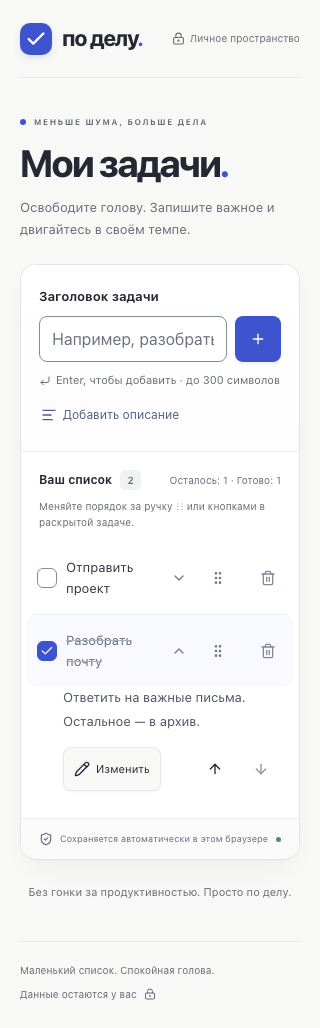
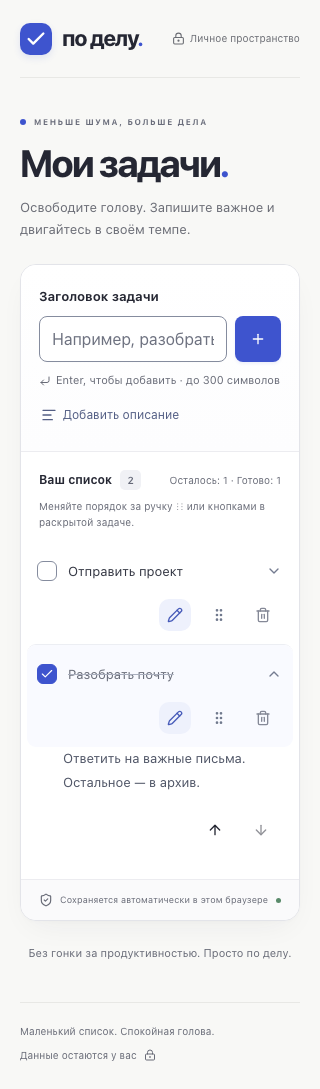
Make task editing directly accessible with a compact pencil action

diff --git a/src/components/sortable-task-list.tsx b/src/components/sortable-task-list.tsx
@@ -70,40 +70,46 @@ function TaskRow({
               <ChevronDown size={16} aria-hidden="true" className="task-chevron" />
             </button>
           </CollapsibleTrigger>
-          <Button
-            ref={handleRef}
-            id={`drag-${task.id}`}
-            variant="ghost"
-            size="icon"
-            className="drag-handle"
-            disabled={tasks.length < 2}
-            aria-label={`Переместить: ${task.title}`}
-          >
-            <GripVertical size={17} aria-hidden="true" />
-          </Button>
-          <Button
-            variant="ghost"
-            size="icon"
-            className="delete-button"
-            aria-label={`Удалить: ${task.title}`}
-            onClick={() => onDelete(task, index)}
-          >
-            <Trash2 aria-hidden="true" size={17} />
-          </Button>
+          <div className="task-actions">
+            <Button
+              variant="ghost"
+              size="icon"
+              className="edit-button"
+              onClick={() => onEdit(task)}
+              aria-label={`Изменить: ${task.title}`}
+              title="Редактировать задачу"
+            >
+              <span className="edit-button-icon">
+                <Pencil size={16} aria-hidden="true" />
+              </span>
+            </Button>
+            <Button
+              ref={handleRef}
+              id={`drag-${task.id}`}
+              variant="ghost"
+              size="icon"
+              className="drag-handle"
+              disabled={tasks.length < 2}
+              aria-label={`Переместить: ${task.title}`}
+            >
+              <GripVertical size={17} aria-hidden="true" />
+            </Button>
+            <Button
+              variant="ghost"
+              size="icon"
+              className="delete-button"
+              aria-label={`Удалить: ${task.title}`}
+              onClick={() => onDelete(task, index)}
+            >
+              <Trash2 aria-hidden="true" size={17} />
+            </Button>
+          </div>
         </div>
         <CollapsibleContent className="task-details">
           <p className={task.description ? 'task-description' : 'task-description no-description'}>
             {task.description || 'Описание пока не добавлено.'}
           </p>
           <div className="detail-actions">
-            <Button
-              variant="outline"
-              size="sm"
-              onClick={() => onEdit(task)}
-              aria-label={`Изменить: ${task.title}`}
-            >
-              <Pencil size={14} aria-hidden="true" /> Изменить
-            </Button>
             <span className="move-controls">
               <Button
                 variant="ghost"

diff --git a/src/index.css b/src/index.css
@@ -374,6 +374,35 @@ input:focus-visible {
   text-decoration: line-through;
   text-decoration-color: #a9aebd;
 }
+/* Keep the hit area generous while the pencil itself stays visually light. */
+.task-actions {
+  display: flex;
+  align-items: center;
+  flex-shrink: 0;
+}
+.edit-button {
+  width: 44px;
+  height: 44px;
+  flex-shrink: 0;
+  border-radius: 8px;
+  color: #475bb9;
+}
+.edit-button-icon {
+  display: grid;
+  place-items: center;
+  width: 32px;
+  height: 32px;
+  border-radius: 10px;
+  background: #eef1fc;
+  transition: background 0.15s ease;
+}
+.edit-button:hover {
+  background: #e9edfc;
+  color: #3045ae;
+}
+.edit-button:hover .edit-button-icon {
+  background: #e1e7fc;
+}
 .delete-button {
   width: 44px;
   height: 44px;
@@ -711,13 +740,9 @@ input:focus-visible {
 .detail-actions {
   display: flex;
   align-items: center;
-  justify-content: space-between;
+  justify-content: flex-end;
   gap: 8px;
   margin-top: 14px;
-}
-.detail-actions > button {
-  min-height: 44px;
-  font-size: 11px;
 }
 .move-controls {
   display: inline-flex;
@@ -805,5 +830,18 @@ input:focus-visible {
   }
   .editor-actions button {
     font-size: 12px;
+  }
+}
+
+@media (max-width: 380px) {
+  .task-row {
+    display: grid;
+    grid-template-columns: 20px minmax(0, 1fr);
+    gap: 0 8px;
+    padding-right: 8px;
+  }
+  .task-actions {
+    grid-column: 2;
+    justify-self: end;
   }
 }

diff --git a/e2e/tasks.spec.ts b/e2e/tasks.spec.ts
@@ -94,6 +94,8 @@ test('keyboard flow preserves focus on toggle, delete and undo', async ({ page }
   await page.keyboard.press('Tab')
   await expect(page.getByRole('button', { name: /^Подробности:/ })).toBeFocused()
   await page.keyboard.press('Tab')
+  await expect(page.getByRole('button', { name: /^Изменить:/ })).toBeFocused()
+  await page.keyboard.press('Tab')
   await expect(page.getByRole('button', { name: /^Удалить:/ })).toBeFocused()
   await page.keyboard.press('Enter')
   await expect(input(page)).toBeFocused()
@@ -356,6 +358,8 @@ test('creates title and multiline description, expands and edits without changin
   await expect(details).toHaveAttribute('aria-expanded', 'true')
   await expect(page.locator('.task-description')).toHaveText('Подготовить сборку\nПроверить CI')
   await page.getByRole('checkbox').check()
+  await details.click()
+  await expect(details).toHaveAttribute('aria-expanded', 'false')
   await page.getByRole('button', { name: 'Изменить: План релиза', exact: true }).click()
   const dialog = page.getByRole('dialog', { name: 'Изменить задачу' })
   await expect(dialog.getByRole('textbox', { name: 'Заголовок задачи', exact: true })).toBeFocused()
